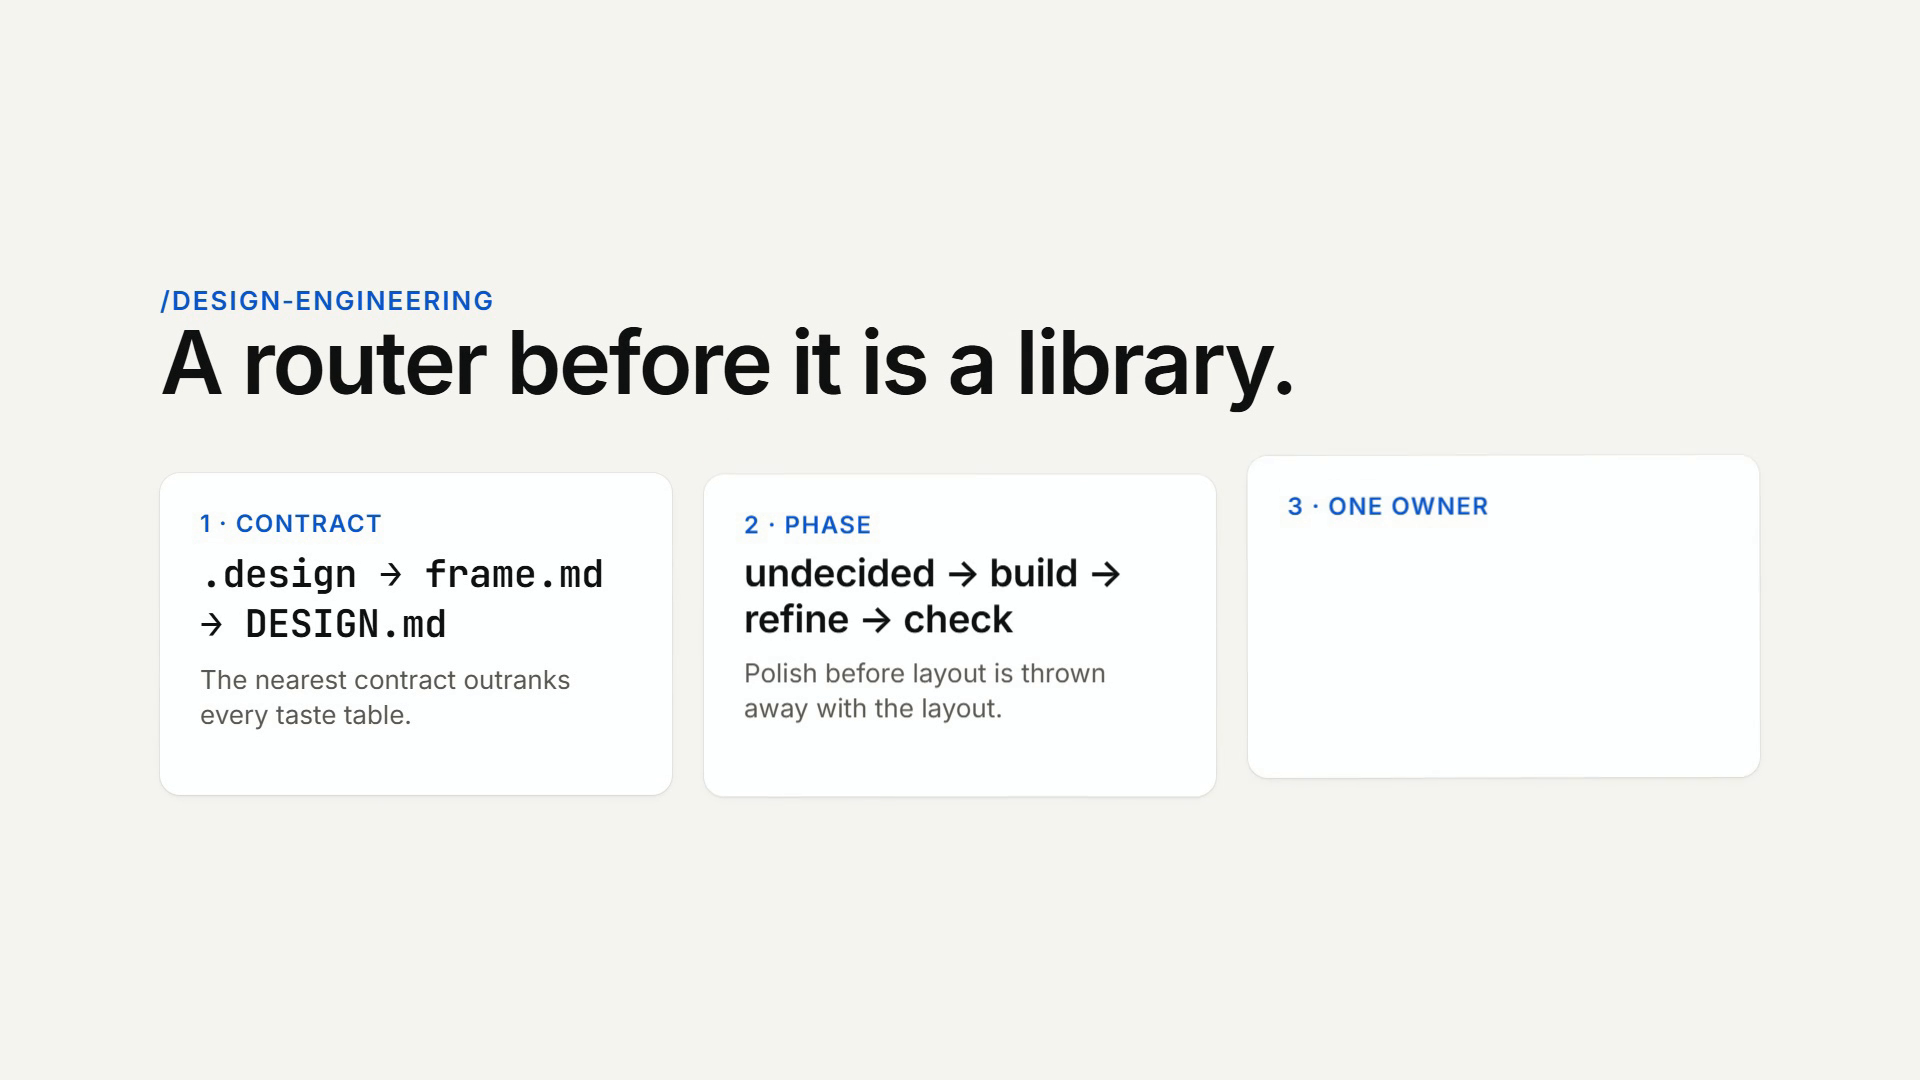
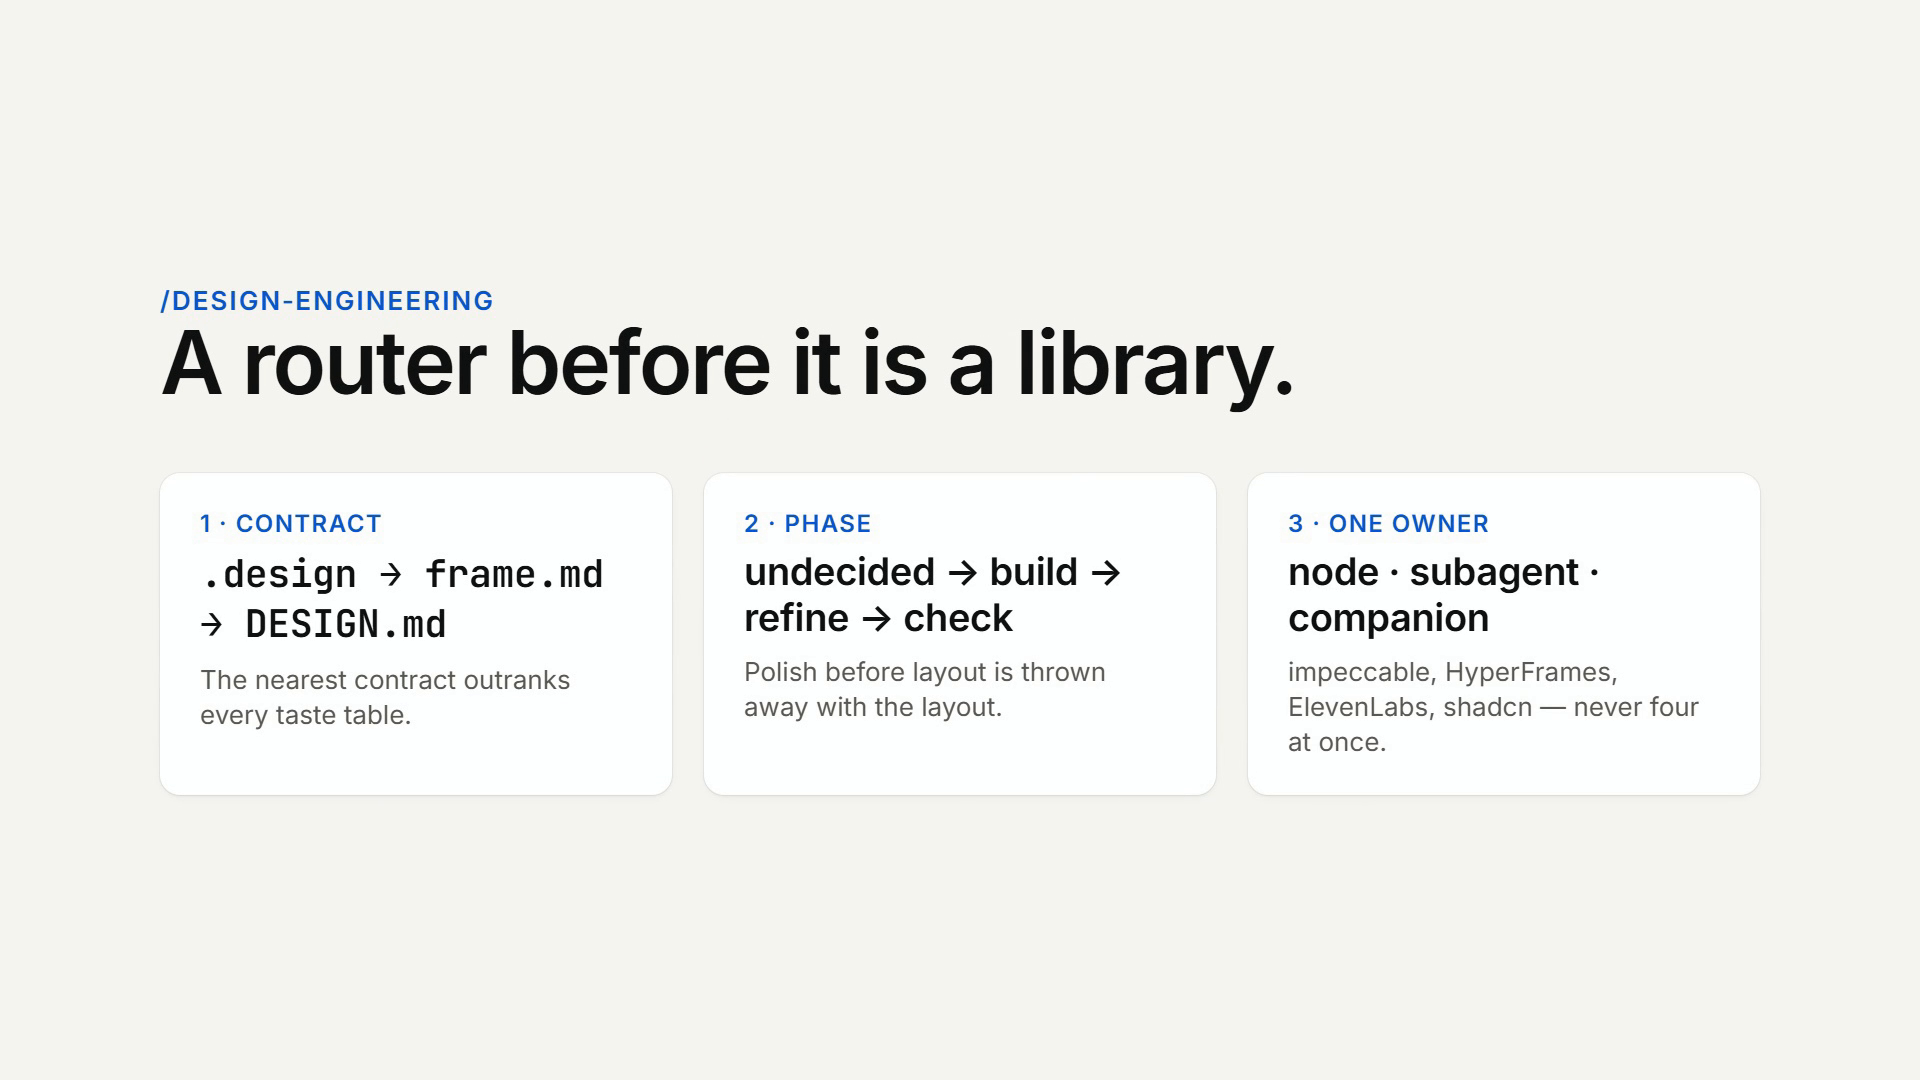
README: the 2.4.0 demo — six settled frames, captions for the new motion, cache-busted media links

diff --git a/README.md b/README.md
@@ -21,14 +21,16 @@ npx skills add AgentsORG/design-engineering
 
 ## Demo
 
-![design-engineering in twelve seconds: the router, a Before / After / Why review, the sound family, the SVG mascot, the install command](docs/demo/design-engineering-demo.gif)
+![design-engineering in twelve seconds: a glyph flipbook lands the wordmark, three cards spring up, a review table streams in and a cursor saves the modal, a sound family and an SVG mascot, the install command types itself](docs/demo/design-engineering-demo.gif?v=2.4.0)
 
-Twelve seconds, made with the skill's own rules and tools. [Watch the MP4 with sound](docs/demo/design-engineering-demo.mp4). The motion is HeyGen's launch grammar (springs, derived blur, shared-element seams, no idle motion), measured against Skale's reel; the sound is the register measured from OpenAI's *Refreshed.* and *Introducing GPT-5* films: a warm sub-heavy bed in F that carries the piece, dry clicks 10–20 dB under it on every stepped reveal (a glyph flipbook, words streaming in, a table filling cell by cell), a low thud when something big settles, and the sub dropping out for half a second before the modal lands. The whole soundtrack is *derived from the motion* — nothing is picked from a library.
+Twelve seconds, made with the skill's own rules and tools. [Watch the MP4 with sound](docs/demo/design-engineering-demo.mp4?v=2.4.0).
+
+**The motion** is HeyGen's launch grammar, measured against Skale's reel: arrivals relax exponentially (tau 0.131 s), placement rings on a damped spring at zeta 1/3 (position 1.45 Hz, shape 1.88 Hz, rotation 2.5 Hz), blur follows velocity, text reveals are stepped, and every scene change is a shared-element morph — a zoom-through, an edge-on collapse that unfolds, a dock, a conveyor — never a cut. No idle motion. **The sound** is the register measured from OpenAI's *Refreshed.* and *Introducing GPT-5*: a warm sub-heavy bed in F that carries the piece, dry clicks 10–20 dB under it on every stepped reveal, a low thud when something big settles on its spring, and the sub dropping out for half a second before the modal lands. The whole soundtrack is *derived from the motion* — nothing is picked from a library.
 
 | What you see | What made it |
 |---|---|
-| The composition | [`docs/demo/hyperframes/index.html`](docs/demo/hyperframes/index.html), a [HyperFrames](https://www.skills.sh/heygen-com/hyperframes/hyperframes) project in the shape HeyGen uses for its own launches, on HeyGen's motion system: arrivals relax exponentially (tau 0.131 s), placement rings on a damped spring at zeta 1/3 (position 1.45 Hz, shape 1.88 Hz, rotation 2.5 Hz), blur follows velocity, text reveals are stepped, and every scene change is a shared-element morph — a zoom-through, an edge-on collapse that unfolds, a dock, a conveyor — never a cut. A cursor flips a toggle and saves. A [storyboard](docs/demo/hyperframes/STORYBOARD.md) carries the act table and audio cue map, a [seam ledger](docs/demo/hyperframes/ledger.json) the seams, and `check` passes with zero layout or contrast findings. `launch-video-seams`, `easing-curves`, `spring-animations`. |
-| The sound | One stereo stem rendered by `scripts/sound-sheet.mjs` from a [cue sheet](docs/demo/hyperframes/assets/sfx/cues.json): a bed with its act-by-act gain arc, one dropout, and ducking under every thud, plus 72 onsets from 22 cues, each with its contact frame and its box on the canvas. Size sets pitch, x sets pan, y sets brightness, a stepped reveal sets the click cadence. The six product one-shots in the same folder come from the same voices (`--family`). The register's numbers — bed root, click decay, hit level under the sub, silence as punctuation — were measured from the two OpenAI films with the scripts in [`docs/research/launch-register/`](docs/research/launch-register/). `sound-from-motion`, `launch-video-sound`, `sound-motion-sync`. |
+| The composition | [`docs/demo/hyperframes/index.html`](docs/demo/hyperframes/index.html), a [HyperFrames](https://www.skills.sh/heygen-com/hyperframes/hyperframes) project in the shape HeyGen uses for its own launches. The ease functions, the spring, and the seams are written once at the top of the file. A [storyboard](docs/demo/hyperframes/STORYBOARD.md) carries the act table and the audio cue map, a [seam ledger](docs/demo/hyperframes/ledger.json) the four seams and the system constants, and `check` passes with zero layout or contrast findings. `launch-video-seams`, `easing-curves`, `spring-animations`. |
+| The sound | One stereo stem rendered by `scripts/sound-sheet.mjs` from a [cue sheet](docs/demo/hyperframes/assets/sfx/cues.json): a bed with its act-by-act gain arc, one dropout, and ducking under every thud, plus 81 onsets from 31 cues, each with its contact frame and its box on the canvas. Size sets pitch, x sets pan, y sets brightness, a stepped reveal sets the click cadence. The six product one-shots in the same folder come from the same voices (`--family`). The register's numbers were measured from the two OpenAI films with the scripts in [`docs/research/launch-register/`](docs/research/launch-register/). `sound-from-motion`, `launch-video-sound`, `sound-motion-sync`. |
 | The mascot | Eight flat SVG frames through `scripts/svg-flipbook.mjs --vars`: one 5.7 KB file, colors lifted to CSS variables, driven by the composition timeline. |
 
 Re-render it yourself:
@@ -43,12 +45,16 @@ Frames from the demo, each a real output shape of the skill.
 
 <table>
 <tr>
-<td width="50%"><img src="docs/demo/screenshots/02-router.png" alt="The router: contract, phase, one owner"><br><sub><b>The router.</b> Before reading anything, <code>/design-engineering</code> resolves the design contract, classifies the phase, and hands the job to one owner — a node, a subagent, or an installed companion. <code>references/meta/skill-router.md</code></sub></td>
-<td width="50%"><img src="docs/demo/screenshots/03-review-and-modal.png" alt="A Before / After / Why review table beside the fixed modal"><br><sub><b>A review, then the fix.</b> Every UI review is a Before | After | Why table scanned against the thirteen-row checklist; the modal on the right is what the After column ships. <code>review-format</code>, <code>review-checklist</code></sub></td>
+<td width="50%"><img src="docs/demo/screenshots/01-title.png?v=2.4.0" alt="The wordmark, just landed on a spring, with the thesis streaming in word by word"><br><sub><b>The wordmark lands.</b> A glyph flipbook at seven frames a step, then the word settles on a damped spring with its blur clearing; the thesis pops in a word every 110 ms, each a click in the stem. <code>launch-video-seams</code>, <code>sound-from-motion</code></sub></td>
+<td width="50%"><img src="docs/demo/screenshots/02-router.png?v=2.4.0" alt="The router: contract, phase, one owner"><br><sub><b>The router.</b> Before reading anything, <code>/design-engineering</code> resolves the design contract, classifies the phase, and hands the job to one owner — a node, a subagent, or an installed companion. The cards sprang up with a rotation ring and built line by line. <code>references/meta/skill-router.md</code></sub></td>
 </tr>
 <tr>
-<td width="50%"><img src="docs/demo/screenshots/04-sound-and-svg.png" alt="Six generated UI sounds and an SVG mascot flipbook"><br><sub><b>Sound and vectors.</b> A six-sound family from the same voices that score the video — dry clicks and a low thud on the bed's root — rendered by <code>sound-sheet.mjs</code>, and a mascot flipbook from <code>svg-flipbook.mjs</code>. <code>sound-from-motion</code>, <code>launch-video-sound</code>, <code>video-to-vector-pipeline</code></sub></td>
-<td width="50%"><img src="docs/demo/screenshots/05-install.png" alt="Ten clusters, nine subagents, one router, and the install command"><br><sub><b>Ten clusters, nine subagents, one router.</b> Installs into any agent that reads a <code>SKILL.md</code>; slash commands and subagents ship for Claude Code, Cursor, and Codex.</sub></td>
+<td width="50%"><img src="docs/demo/screenshots/03-review-and-modal.png?v=2.4.0" alt="A Before / After / Why review table beside the fixed modal, the cursor pressing Save"><br><sub><b>A review, then the fix.</b> Every UI review is a Before | After | Why table scanned against the thirteen-row checklist; the modal on the right is what the After column ships — and a cursor presses Save. <code>review-format</code>, <code>review-checklist</code></sub></td>
+<td width="50%"><img src="docs/demo/screenshots/06-cursor-toggle.png?v=2.4.0" alt="The cursor flipping the sound toggle in the modal"><br><sub><b>An interaction, stepped.</b> The cursor arrives on an exponential curve and the toggle is a decision: the knob seats on a spring, the track turns blue, and the stem gets two clicks — the press and the seat. <code>responsive-feedback</code>, <code>sound-motion-sync</code></sub></td>
+</tr>
+<tr>
+<td width="50%"><img src="docs/demo/screenshots/04-sound-and-svg.png?v=2.4.0" alt="Six generated UI sounds and an SVG mascot flipbook"><br><sub><b>Sound and vectors.</b> A six-sound family from the same voices that score the video — dry clicks and a low thud on the bed's root — rendered by <code>sound-sheet.mjs</code>, riding in on a conveyor; and a mascot flipbook from <code>svg-flipbook.mjs</code> whose stage grew from where the modal docked. <code>sound-from-motion</code>, <code>launch-video-sound</code>, <code>video-to-vector-pipeline</code></sub></td>
+<td width="50%"><img src="docs/demo/screenshots/05-install.png?v=2.4.0" alt="Ten clusters, nine subagents, one router, and the install command"><br><sub><b>Ten clusters, nine subagents, one router.</b> The command rose as a sent pill, typed itself in five chunks, and popped on success. Installs into any agent that reads a <code>SKILL.md</code>; slash commands and subagents ship for Claude Code, Cursor, and Codex.</sub></td>
 </tr>
 </table>
 
